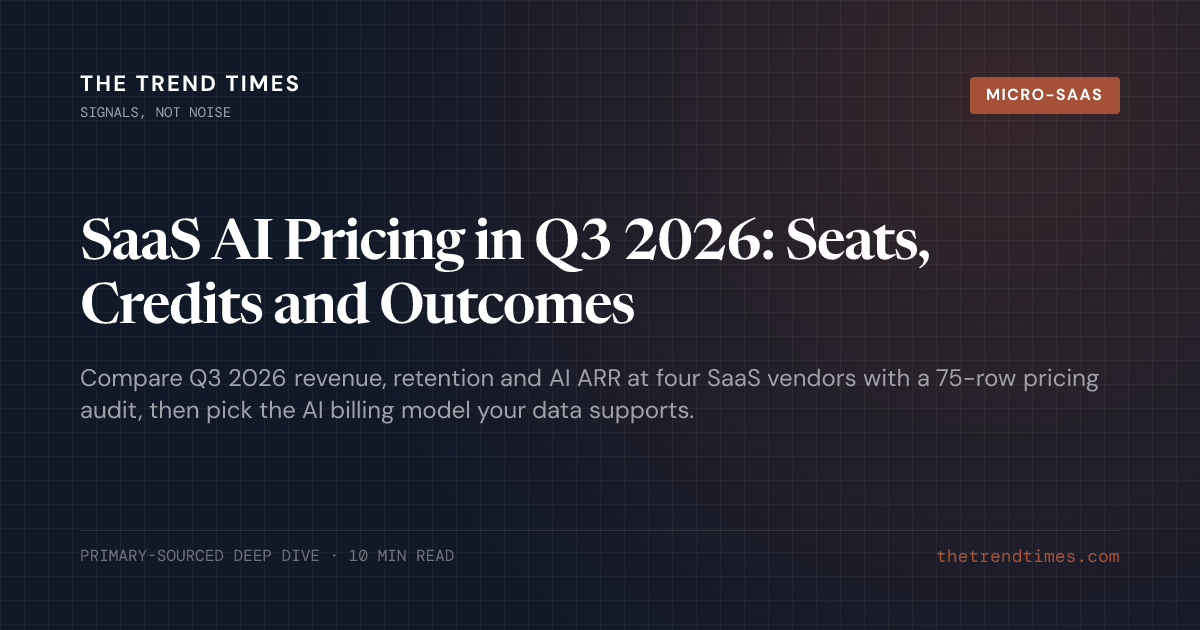
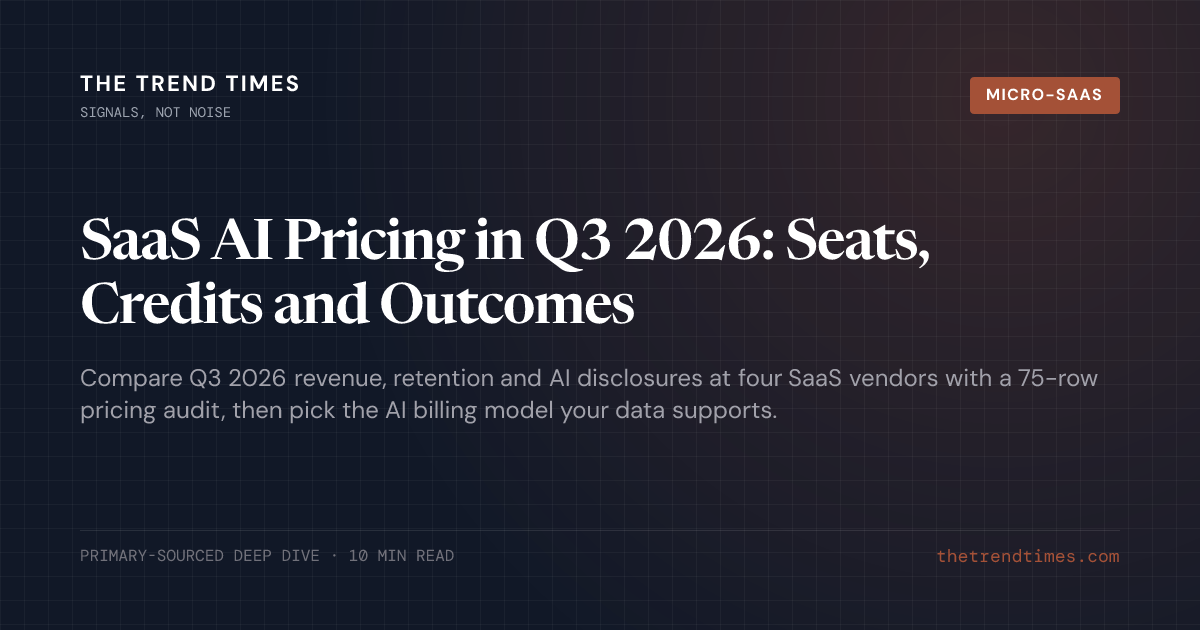
fix(content): clarify issue 023 metadata and expansion wording

Changed region(s): [[0.0617, 0.573, 0.925, 0.6635]]

diff --git a/src/content/blog/saas-ai-pricing-q3-2026-seats-credits-outcomes.md b/src/content/blog/saas-ai-pricing-q3-2026-seats-credits-outcomes.md
@@ -1,6 +1,6 @@
 ---
 title: "SaaS AI Pricing in Q3 2026: Seats, Credits and Outcomes"
-description: "Compare Q3 2026 revenue, retention and AI ARR at four SaaS vendors with a 75-row pricing audit, then pick the AI billing model your data supports."
+description: "Compare Q3 2026 revenue, retention and AI disclosures at four SaaS vendors with a 75-row pricing audit, then pick the AI billing model your data supports."
 pubDate: 2026-11-28
 category: saas
 structure: data-comparison
@@ -49,9 +49,9 @@ The table pairs each figure with its source and reporting date. The first four r
 
 Sample notes: the vendor rows are company-reported and cover one quarter each. TCV means total contract value over the full contract term, not an annual figure. The audit row counts pricing pages, not customers or dollars, and the paper's v2 is dated 2026-11-03 ([arXiv](https://arxiv.org/abs/2610.30701v2)).
 
-## Where the Q3 Numbers Agree on Large-Account Expansion
+## Where the Q3 Numbers Agree on Existing-Account Expansion
 
-Past the blended numbers, all four releases tell one story. Growth comes from large customers spending more, while the long tail barely moves.
+Past the blended numbers, three of the four break out customer cohorts, and each shows growth concentrating in large accounts. All four describe expansion among existing customers as the main engine.
 
 At monday.com, customers above $50,000 in ARR grew 26% to 5,038 and posted NRR of 114% ([monday.com](https://ir.monday.com/news-and-events/news-releases/news-details/2026/monday-com-Announces-Third-Quarter-2026-Results-new/default.aspx)). Accounts above $100,000 grew 33% to 2,127, and those above $500,000 grew 58% to 123. Paid customers with more than 10 users grew only 5%. The largest single customer runs more than 87,000 seats.
 
@@ -61,7 +61,7 @@ Freshworks repeats it at a smaller scale. Customers above $100,000 in ARR grew 2
 
 Kaltura's AI story is an expansion story too. Of 15 deals that included AI offerings, 12 were expansions or renewals with existing customers ([Kaltura](https://investors.kaltura.com/news-releases/news-release-details/kaltura-announces-financial-results-third-quarter-2026)). Nine included Agentic Avatars and eight included Content Lab. The quarter also brought 11 six-figure deals and three seven-figure deals.
 
-The second point of agreement is where AI sits: on top of an existing subscription. Two of the four make this explicit. monday.com builds its AI ARR from credits, agents and vibe on a platform it still counts in users and seats. Kaltura sells AI into accounts it already serves.
+The second point of agreement is where AI sits: on top of an existing subscription. Two of the four make this explicit. monday.com builds its AI ARR from credits, agents and vibe on a platform it still counts in users and seats. Kaltura sells AI mostly into accounts it already serves.
 
 ## Where the Q3 Numbers Split on Retention and AI Disclosure
 
@@ -135,7 +135,7 @@ The counter-case deserves a hearing. Outcome pricing may be spreading in enterpr
 
 ## Pricing Verdict for B2B SaaS Teams
 
-The verdict: keep the seat and sell AI as a credit quota inside it, the pattern behind 55% of observable AI-native rows in the audit ([arXiv](https://arxiv.org/abs/2610.30701v2)). Report AI revenue only if your billing system meters AI as its own unit. Hold outcome pricing for work your product can attribute, which today means support-style resolutions.
+The verdict: keep the subscription as the anchor and sell AI as a metered quota inside it, the model in 55% of observable AI-native rows in the audit ([arXiv](https://arxiv.org/abs/2610.30701v2)). Report AI revenue only if your billing system meters AI as its own unit. Hold outcome pricing for work your product can attribute, which today means support-style resolutions.
 
 Watch large accounts, not the blended rate. All four vendors grew fastest in their biggest cohorts, and monday.com's NRR reached 114% above $50,000 in ARR against 108% overall ([monday.com](https://ir.monday.com/news-and-events/news-releases/news-details/2026/monday-com-Announces-Third-Quarter-2026-Results-new/default.aspx)).
 
